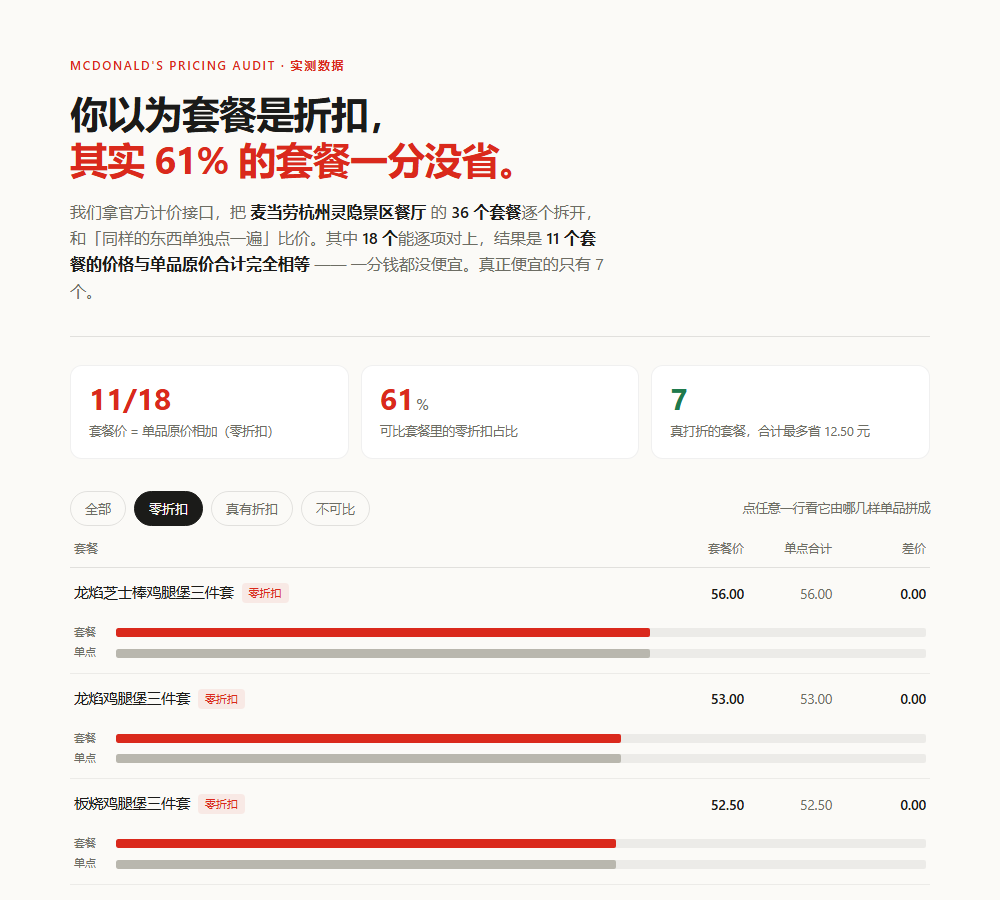
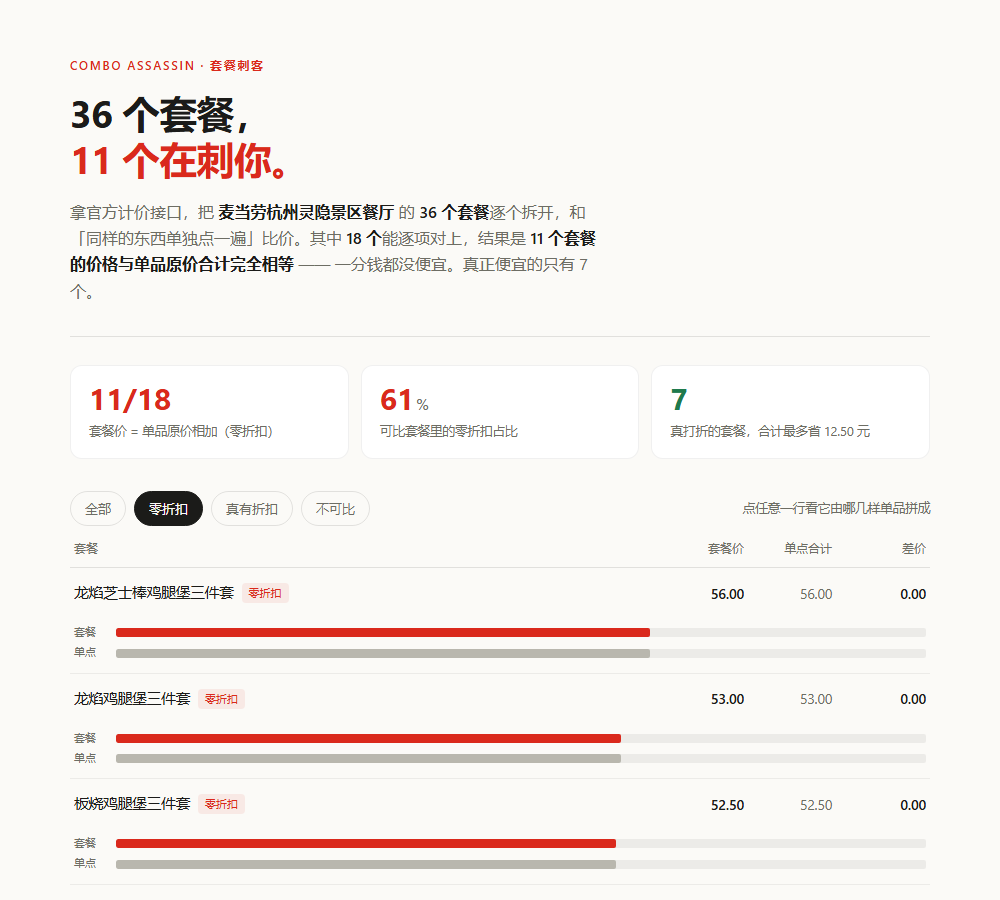
brand: 更名「套餐刺客 / Combo Assassin」
- 主标题：「36 个套餐，11 个在刺你。」——不承诺省钱，承诺揭穿
- demo kicker / title / h1 动态化，README / 参赛声明 / CLI 同步更名

Changed region(s): [[0.062, 0.0622, 0.589, 0.3111]]

diff --git a/demo/index.html b/demo/index.html
@@ -3,7 +3,7 @@
 <head>
 <meta charset="utf-8">
 <meta name="viewport" content="width=device-width, initial-scale=1">
-<title>麦当劳定价审计 · 套餐到底有没有折扣</title>
+<title>套餐刺客 · 36 个套餐里有几个在刺你</title>
 <style>
   :root {
     --bg: #fbfaf7;
@@ -152,8 +152,8 @@
 <div class="wrap">
 
 <header>
-  <div class="kicker">McDonald's pricing audit · 实测数据</div>
-  <h1>你以为套餐是折扣，<br><em id="h1-fig">其实六成套餐一分没省。</em></h1>
+  <div class="kicker">Combo Assassin · 套餐刺客</div>
+  <h1><span id="h1-total">36</span> 个套餐，<br><em><span id="h1-zero">11</span> 个在刺你。</em></h1>
   <p class="lede" id="lede"></p>
 </header>
 
@@ -200,11 +200,11 @@
 
   function yuan(c) { return (c / 100).toFixed(2); }
 
-  document.getElementById('h1-fig').textContent =
-    '其实 ' + S.zero_ratio + '% 的套餐一分没省。';
+  document.getElementById('h1-total').textContent = S.total;
+  document.getElementById('h1-zero').textContent = S.zero;
 
   document.getElementById('lede').innerHTML =
-    '我们拿官方计价接口，把 <b>' + (D.meta.store || '这家门店') + '</b> 的 <b>' + S.total +
+    '拿官方计价接口，把 <b>' + (D.meta.store || '这家门店') + '</b> 的 <b>' + S.total +
     ' 个套餐</b>逐个拆开，和「同样的东西单独点一遍」比价。' +
     '其中 <b>' + S.comparable + ' 个</b>能逐项对上，结果是 <b>' + S.zero +
     ' 个套餐的价格与单品原价合计完全相等</b> —— 一分钱都没便宜。' +

diff --git a/tools/demo_template.html b/tools/demo_template.html
@@ -3,7 +3,7 @@
 <head>
 <meta charset="utf-8">
 <meta name="viewport" content="width=device-width, initial-scale=1">
-<title>麦当劳定价审计 · 套餐到底有没有折扣</title>
+<title>套餐刺客 · 36 个套餐里有几个在刺你</title>
 <style>
   :root {
     --bg: #fbfaf7;
@@ -152,8 +152,8 @@
 <div class="wrap">
 
 <header>
-  <div class="kicker">McDonald's pricing audit · 实测数据</div>
-  <h1>你以为套餐是折扣，<br><em id="h1-fig">其实六成套餐一分没省。</em></h1>
+  <div class="kicker">Combo Assassin · 套餐刺客</div>
+  <h1><span id="h1-total">36</span> 个套餐，<br><em><span id="h1-zero">11</span> 个在刺你。</em></h1>
   <p class="lede" id="lede"></p>
 </header>
 
@@ -200,11 +200,11 @@
 
   function yuan(c) { return (c / 100).toFixed(2); }
 
-  document.getElementById('h1-fig').textContent =
-    '其实 ' + S.zero_ratio + '% 的套餐一分没省。';
+  document.getElementById('h1-total').textContent = S.total;
+  document.getElementById('h1-zero').textContent = S.zero;
 
   document.getElementById('lede').innerHTML =
-    '我们拿官方计价接口，把 <b>' + (D.meta.store || '这家门店') + '</b> 的 <b>' + S.total +
+    '拿官方计价接口，把 <b>' + (D.meta.store || '这家门店') + '</b> 的 <b>' + S.total +
     ' 个套餐</b>逐个拆开，和「同样的东西单独点一遍」比价。' +
     '其中 <b>' + S.comparable + ' 个</b>能逐项对上，结果是 <b>' + S.zero +
     ' 个套餐的价格与单品原价合计完全相等</b> —— 一分钱都没便宜。' +

diff --git a/src/mcd_solver/cli.py b/src/mcd_solver/cli.py
@@ -205,7 +205,7 @@ def cmd_fetch(args: argparse.Namespace) -> int:
 def build_parser() -> argparse.ArgumentParser:
     parser = argparse.ArgumentParser(
         prog="mcd-solver",
-        description="麦麦凑单最优解：加最少冤枉钱，精确跨过免配送费 / 券门槛。",
+        description="套餐刺客：把套餐拆开算一遍，看它到底有没有便宜。",
     )
     sub = parser.add_subparsers(dest="command", required=True)
 

diff --git a/src/mcd_solver/__init__.py b/src/mcd_solver/__init__.py
@@ -1,4 +1,4 @@
-"""麦麦凑单最优解 —— 基于麦当劳 MCP 的凑单精确求解器。"""
+"""套餐刺客（Combo Assassin）—— 基于麦当劳 MCP 的套餐定价审计工具。"""
 
 from .models import (
     CATEGORY_LABELS,

diff --git a/README.md b/README.md
@@ -1,8 +1,10 @@
-# 麦麦定价审计 · Mcd Audit
+# 套餐刺客 · Combo Assassin
 
 ![Python](https://img.shields.io/badge/python-3.10%2B-3776AB) ![零依赖](https://img.shields.io/badge/dependencies-0-success) ![License](https://img.shields.io/badge/license-MIT-black)
 
-**麦当劳的套餐不是折扣，是打包。**
+**把套餐拆开算一遍，看它到底刺没刺你。**
+
+麦当劳的套餐不是折扣，是打包。
 
 我把「麦当劳杭州灵隐景区餐厅」的 36 个套餐逐个拆开，用官方计价接口分别给「套餐」和「同样的东西单点一遍」报价，然后相减。
 

diff --git a/CONTEST_DECLARATION.md b/CONTEST_DECLARATION.md
@@ -1,6 +1,6 @@
 # 参赛声明
 
-本项目 **麦麦定价审计（Mcd Audit）** 参加麦当劳程序员节创意开发大赛，遵循《麦当劳程序员节创意开发大赛活动规则》。以下为逐项声明。
+本项目 **套餐刺客（Combo Assassin）** 参加麦当劳程序员节创意开发大赛，遵循《麦当劳程序员节创意开发大赛活动规则》。以下为逐项声明。
 
 ## 原创性声明
 
